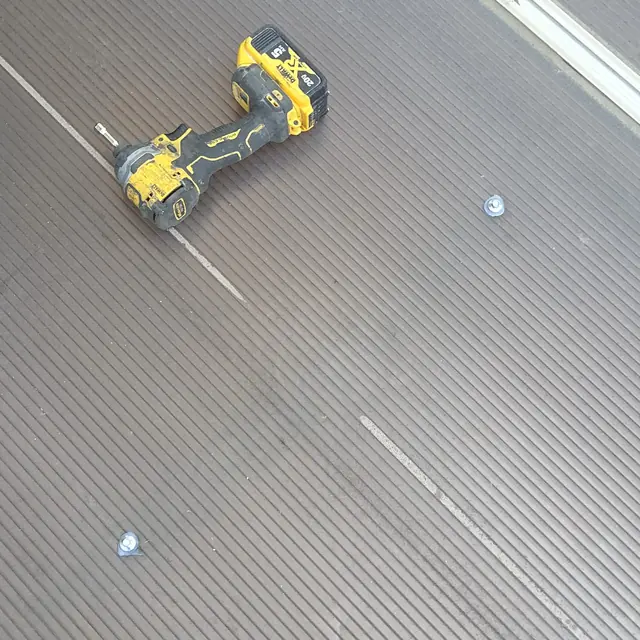
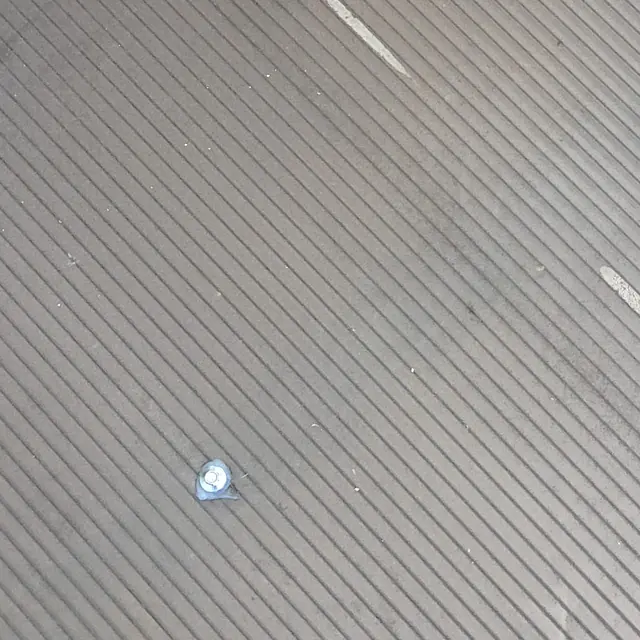
정보글 — 주차장 캐노피·분리수거장·자전거 보관대 렉산 지붕 (렉산 4번째) / 주차장 진입로 사례 사진 2장 다시 자름 (동 번호·단지 입구 간판·공구 상표)

diff --git a/lexan_gen.py b/lexan_gen.py
@@ -27,7 +27,7 @@ GALLERY_BY_REGION = {
     'seoul': [('설치', '벽 옆에 세운 골조', '지붕 틀까지 세운 상태입니다'), ('설치', '가까이에서 본 골조', ''), ('마감', '렉산 판을 붙인 앞면', ''), ('완료', '벽과 지붕을 렉산으로 막은 모습', ''), ('완료', '옆에서 본 렉산 벽체', ''), ('완료', '완성된 렉산 벽체와 지붕', '')],
     'incheon': [('시공 전', '캐노피가 없는 출입구', ''), ('시공 전', '얼룩진 기존 캐노피', '아래에서 올려다본 모습입니다'), ('철거', '통째로 떼어 내려놓은 옛 캐노피', ''), ('설치', '브라켓 위에 올린 갈색 판', ''), ('고정', '처마에 단 고정쇠와 와이어', ''), ('완료', '위에서 본 새 캐노피', '')],
     'goyang-paju': [('시공 전', '이끼와 얼룩이 낀 기존 캐노피', '아래에서 올려다본 모습입니다'), ('철거', '판을 걷어내 골조만 남은 캐노피', ''), ('철거', '걷어 내려놓은 헌 판', ''), ('설치', '새 판을 씌운 아치 캐노피', '위에서 본 모습입니다'), ('설치', '위에서 본 파란 새 판', ''), ('완료', '아래에서 본 청록색 새 캐노피', '')],
-    'uijeongbu-yangju': [('확인', '주차장 진입로를 덮은 렉산 지붕', '위에서 본 모습입니다'), ('확인', '복층렉산 판 위 고정 피스', ''), ('준비', '지붕 위에 올려 둔 공구', ''), ('실링', '덮개바를 따라 새로 쏜 실리콘', '이음부마다 흰 줄이 이어집니다'), ('실링', '이음부 실리콘 보강', ''), ('완료', '용마루 쪽에서 본 지붕', '')],
+    'uijeongbu-yangju': [('확인', '주차장 진입로를 덮은 렉산 지붕', '위에서 본 모습입니다'), ('확인', '복층렉산 판 위 고정 피스', ''), ('확인', '속 골이 비쳐 보이는 복층렉산 판', ''), ('실링', '덮개바를 따라 새로 쏜 실리콘', '이음부마다 흰 줄이 이어집니다'), ('실링', '이음부 실리콘 보강', ''), ('완료', '용마루 쪽에서 본 지붕', '')],
     'namyangju-guri': [('시공 전', '찢어져 늘어진 캐노피 판', '누렇게 바랜 판이 브라켓에서 벗어났습니다'), ('시공 전', '벽을 따라 길게 이어진 캐노피', '중간에 찢어진 판이 매달려 있습니다'), ('확인', '구멍이 난 판과 브라켓', ''), ('확인', '누렇게 바랜 기존 판', ''), ('자재', '바닥에 펼친 새 판', '보호 필름이 붙어 있습니다'), ('철거', '벽을 따라 남은 브라켓', '')],
     'suwon-osan': [('시공 전', '찢어져 벌어진 기존 아치 지붕', ''), ('확인', '들떠서 떨어진 덮개바와 헌 판', ''), ('철거', '헌 판을 걷어내 골조만 남은 지붕', ''), ('설치', '칸마다 올린 새 판', ''), ('설치', '곡면을 따라 이어 올린 새 판', ''), ('고정', '덮개바 피스 고정 자리', '피스 머리에 실리콘을 발랐습니다')],
     'hwaseong-dongtan': [('설치', '벽에서 뻗은 캐노피 골조', '판을 올리기 전입니다'), ('설치', '창 위를 지나는 골조', ''), ('설치', '골조 위에 올린 갈색 복층렉산', '판 위에 공구가 놓여 있습니다'), ('완료', '아래에서 본 복층렉산 지붕', '판 속의 골이 비쳐 보입니다'), ('완료', '모서리 쪽 지붕 끝단', ''), ('완료', '데크 위 캐노피 전경', '')],
@@ -99,7 +99,7 @@ CASES = [
     {'slug': 'aisle-lexan-roof-full-replace', 'title': '건물 옆 통로 · 렉산 지붕 전체 교체', 'date': '2025-09', 'summary': '건물 옆 통로를 덮은 넓은 렉산 지붕입니다. 흐려지고 때가 낀 헌 판과 녹슨 마감재를 걷어내고, 목재 각재 위에 갈색 복층렉산 새 판을 깔아 덮개바와 볼트로 고정했습니다.', 'cover': 8, 'photos': [('시공 전', '흐려지고 때가 낀 기존 렉산 지붕', ''), ('철거', '헌 판을 걷어내 드러난 목재 각재', ''), ('철거', '걷어낸 녹슨 마감재', ''), ('확인', '기존 이음부에 발라져 있던 실란트', ''), ('설치', '각재 위에 깔기 시작한 갈색 복층렉산', ''), ('고정', '덮개바 볼트 고정', '볼트 머리에 실리콘을 발랐습니다'), ('완료', '새 판으로 덮은 지붕', ''), ('완료', '덮개바 줄이 나란한 새 지붕', '')]},
     {'slug': 'old-wooden-pergola-demolition', 'title': '낡은 목조 파고라 철거', 'date': '2025-07', 'summary': '데크 위에 서 있던 낡은 목조 파고라를 철거한 현장입니다. 지붕부터 기울여 해체하고 자리를 비웠습니다.', 'cover': 3, 'photos': [('시공 전', '데크 위 낡은 목조 파고라', ''), ('시공 전', '옆에서 본 파고라 지붕', ''), ('철거', '기울여 눕힌 파고라 지붕', ''), ('철거', '해체 중인 지붕과 기둥', ''), ('완료', '철거를 마친 자리', '')]},
     {'slug': 'long-wall-canopy-lexan-replace', 'title': '건물 벽면 긴 캐노피 · 찢어진 렉산 교체', 'date': '2025-06', 'summary': '건물 벽을 따라 길게 이어진 브라켓 캐노피입니다. 누렇게 바랜 판이 찢어져 늘어져 있었습니다. 헌 판을 모두 걷어내 브라켓만 남긴 뒤 새 판으로 다시 씌웠습니다.', 'cover': 8, 'photos': [('시공 전', '찢어져 늘어진 캐노피 판', '누렇게 바랜 판이 브라켓에서 벗어났습니다'), ('확인', '구멍이 난 판과 브라켓', ''), ('시공 전', '벽을 따라 길게 이어진 캐노피', '중간에 찢어진 판이 매달려 있습니다'), ('확인', '누렇게 바랜 기존 판', ''), ('자재', '바닥에 펼친 새 판', '보호 필름이 붙어 있습니다'), ('철거', '판을 걷어내 브라켓만 남은 모습', ''), ('철거', '벽을 따라 남은 브라켓', ''), ('완료', '새 판을 씌운 구간', '')]},
-    {'slug': 'apt-parking-ramp-roof-silicone', 'title': '아파트 주차장 진입로 지붕 · 렉산 이음부 실리콘 보강', 'date': '2025-05', 'summary': '아파트 단지 주차장 진입로를 덮은 렉산 지붕입니다. 판은 그대로 두고, 지붕 위에 올라가 덮개바 양옆 이음부를 따라 실리콘을 새로 쏴 보강했습니다.', 'cover': 5, 'photos': [('확인', '주차장 진입로를 덮은 렉산 지붕', '위에서 본 모습입니다'), ('확인', '복층렉산 판 위 고정 피스', ''), ('준비', '지붕 위에 올려 둔 공구', ''), ('실링', '덮개바를 따라 새로 쏜 실리콘', '이음부마다 흰 줄이 이어집니다'), ('실링', '이음부 실리콘 보강', ''), ('완료', '보강을 마친 지붕 한 면', ''), ('완료', '용마루 쪽에서 본 지붕', ''), ('완료', '가장자리까지 실리콘을 쏜 지붕', '')]},
+    {'slug': 'apt-parking-ramp-roof-silicone', 'title': '아파트 주차장 진입로 지붕 · 렉산 이음부 실리콘 보강', 'date': '2025-05', 'summary': '아파트 단지 주차장 진입로를 덮은 렉산 지붕입니다. 판은 그대로 두고, 지붕 위에 올라가 덮개바 양옆 이음부를 따라 실리콘을 새로 쏴 보강했습니다.', 'cover': 5, 'photos': [('확인', '주차장 진입로를 덮은 렉산 지붕', '위에서 본 모습입니다'), ('확인', '복층렉산 판 위 고정 피스', ''), ('확인', '속 골이 비쳐 보이는 복층렉산 판', ''), ('실링', '덮개바를 따라 새로 쏜 실리콘', '이음부마다 흰 줄이 이어집니다'), ('실링', '이음부 실리콘 보강', ''), ('완료', '보강을 마친 지붕 한 면', ''), ('완료', '용마루 쪽에서 본 지붕', ''), ('완료', '가장자리까지 실리콘을 쏜 지붕', '')]},
     {'slug': 'apt-recycling-shed-roof-silicone', 'title': '아파트 분리수거장 지붕 · 렉산 이음부 실리콘 보강', 'date': '2025-05', 'summary': '아파트 단지 분리수거장의 렉산 지붕입니다. 덮개바 자리를 닦아 낸 뒤 이음부를 따라 실리콘을 쏴 보강했습니다.', 'cover': 4, 'photos': [('시공 전', '아파트 단지 분리수거장', ''), ('확인', '아래에서 본 분리수거장 렉산 지붕', ''), ('준비', '덮개바 자리 닦아 내기', '실리콘을 쏘기 전에 닦습니다'), ('완료', '이음부에 실리콘을 쏜 지붕', ''), ('마감', '피스 머리와 덮개바 옆 실리콘', ''), ('완료', '실리콘 줄이 이어진 지붕 면', '')]},
     {'slug': 'sunken-window-lexan-cover-replace', 'title': '지하 창 위 곡면 렉산 덮개 교체', 'date': '2025-04', 'summary': '건물 아래쪽 창 위를 덮고 있던 곡면 렉산 덮개입니다. 판이 갈라져 합판으로 임시로 덮어 둔 상태였습니다. 헌 판을 걷어내고 새 판을 끼운 뒤 테두리 몰딩을 다시 고정했습니다.', 'cover': 7, 'photos': [('시공 전', '합판으로 임시로 덮어 둔 렉산 덮개', '판이 갈라져 벌어진 자리입니다'), ('확인', '길게 갈라진 헌 판', ''), ('철거', '헌 판을 걷어낸 자리', '안쪽 철제 바닥망이 드러났습니다'), ('설치', '새 판을 끼운 첫 칸', ''), ('설치', '곡면을 따라 끼워 나가는 새 판', ''), ('고정', '테두리 몰딩 피스 고정', ''), ('완료', '새 판으로 바꾼 곡면 덮개', '')]},
     {'slug': 'entrance-arch-roof-lexan-replace', 'title': '건물 정문 위 아치 지붕 · 렉산 교체', 'date': '2025-04', 'summary': '건물 정문 위 아치 지붕입니다. 기존 판이 찢어져 벌어진 상태였습니다. 헌 판을 걷어내 골조만 남긴 뒤 새 판을 칸마다 올리고 덮개바를 고정해 마감했습니다.', 'cover': 7, 'photos': [('시공 전', '찢어져 벌어진 기존 아치 지붕', ''), ('확인', '들떠서 떨어진 덮개바와 헌 판', ''), ('철거', '헌 판을 걷어내 골조만 남은 지붕', ''), ('설치', '칸마다 올린 새 판', ''), ('고정', '덮개바 피스 고정 자리', '피스 머리에 실리콘을 발랐습니다'), ('설치', '곡면을 따라 이어 올린 새 판', ''), ('완료', '위에서 본 새 아치 지붕', '')]},
